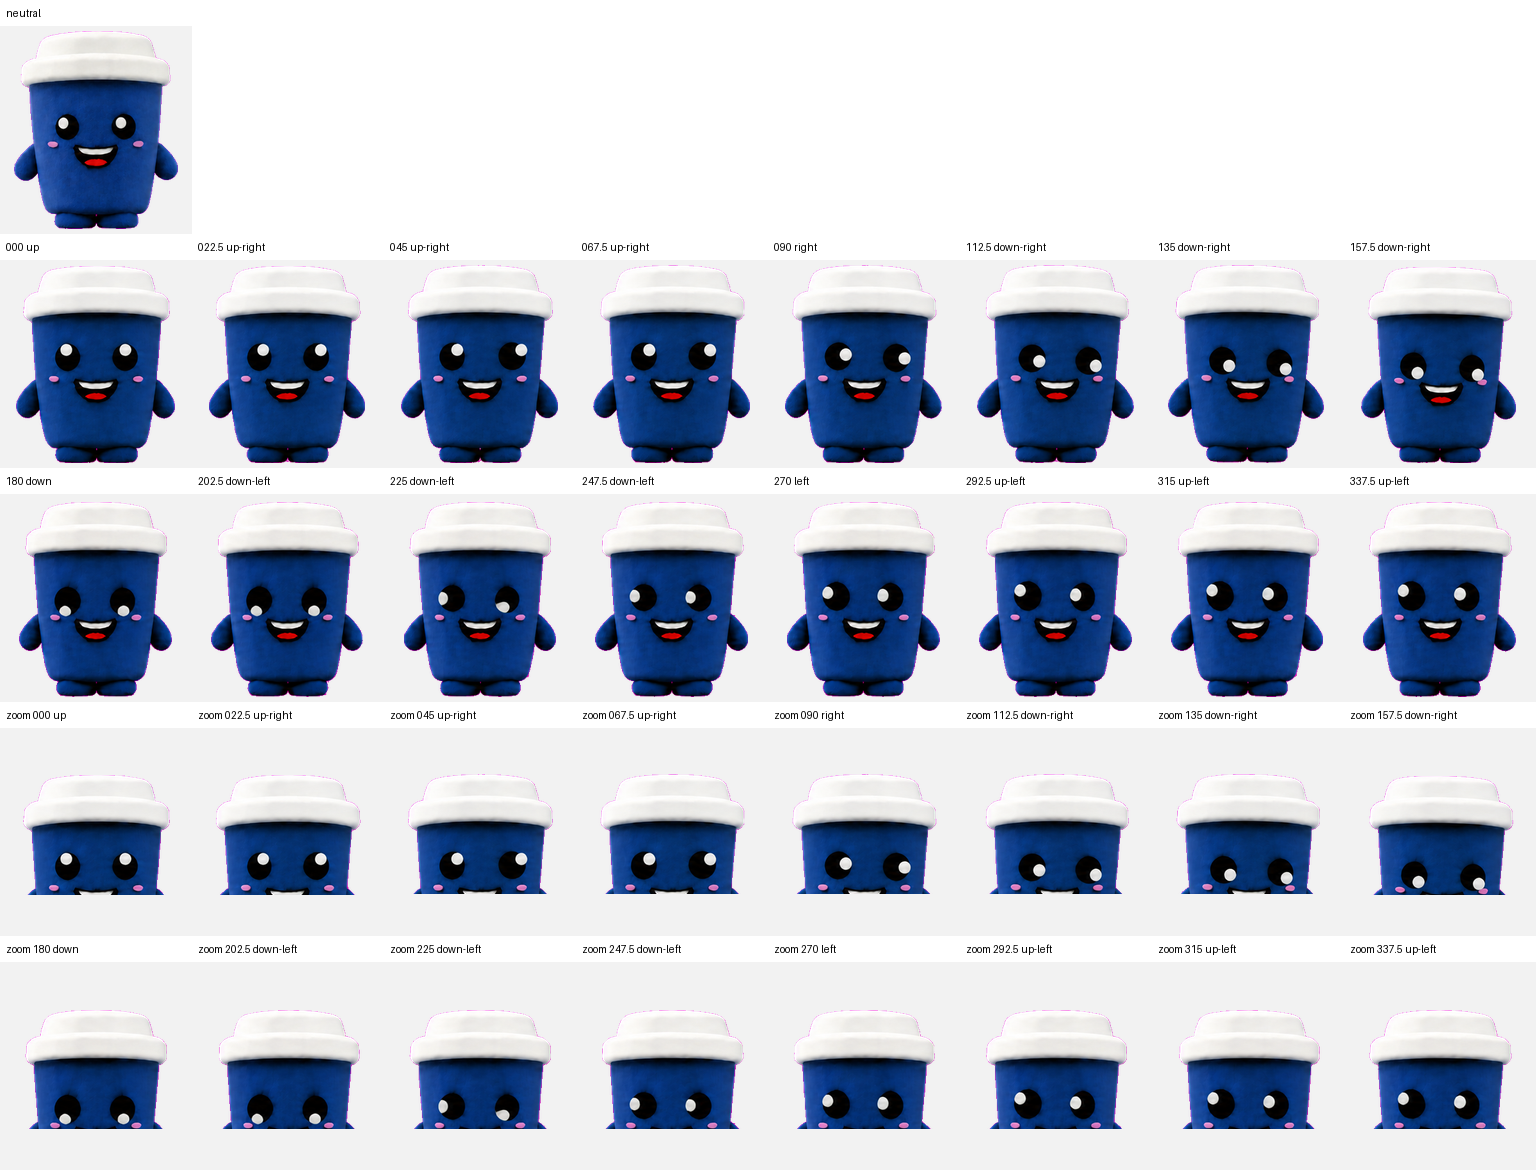
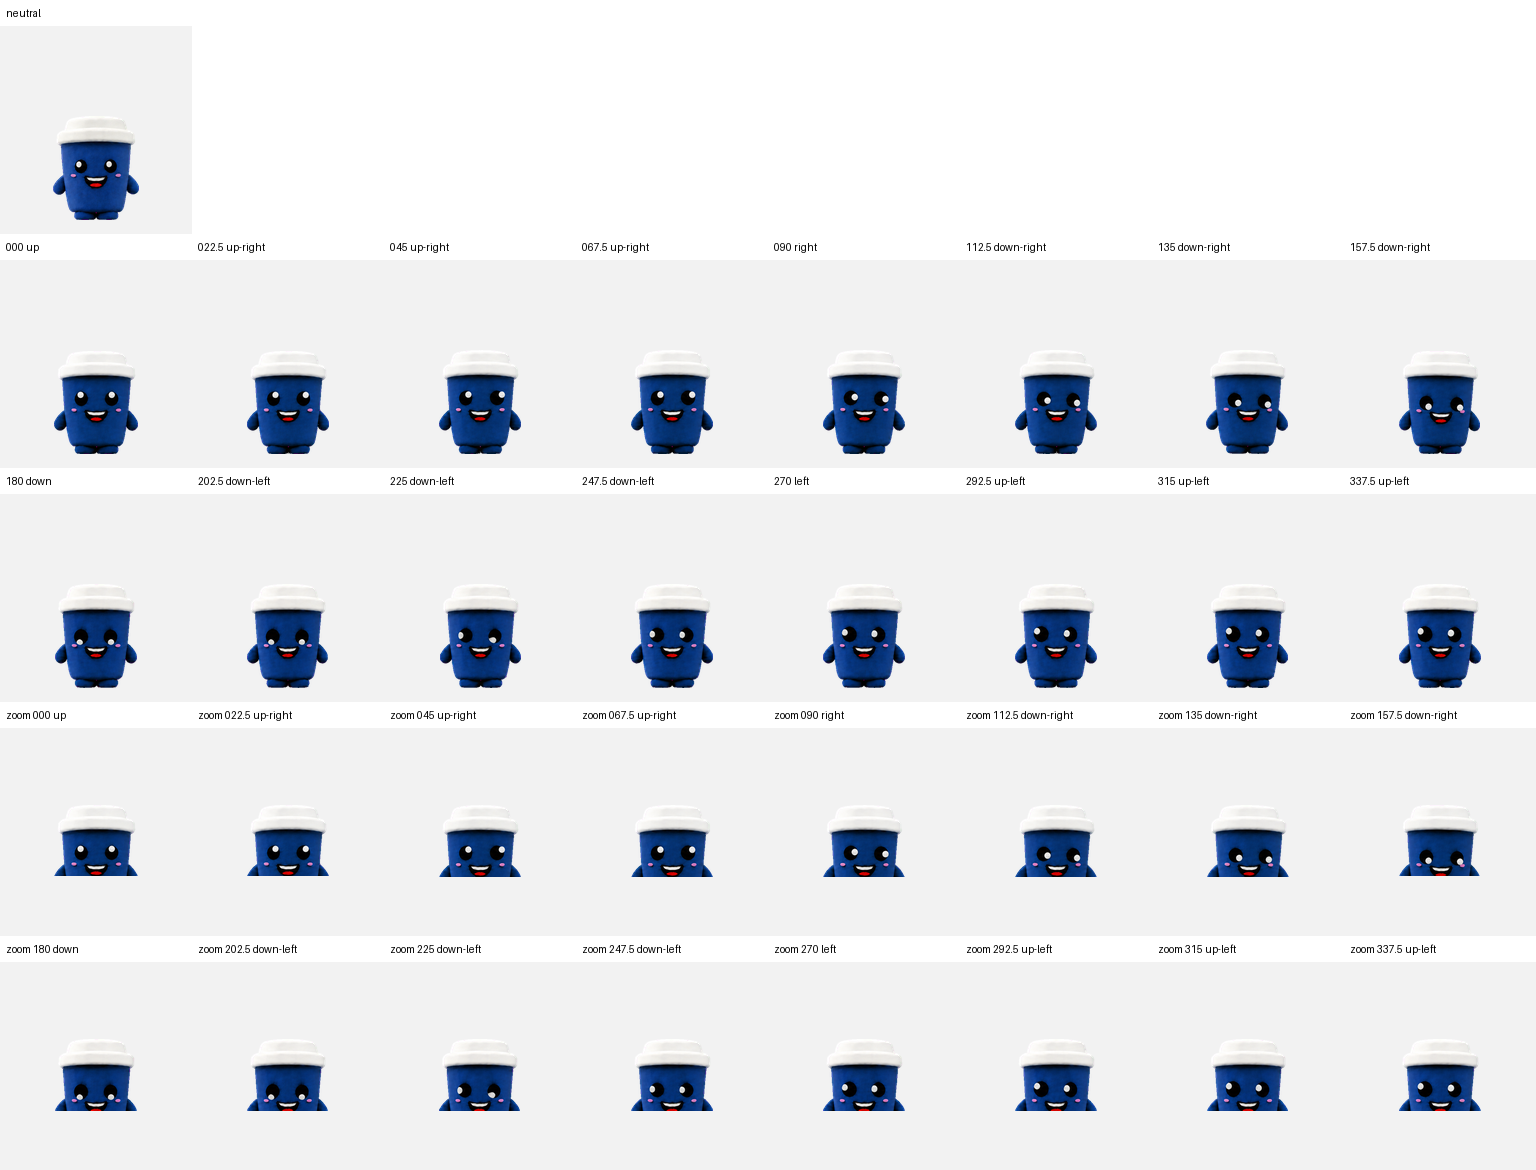
fix: match Blue Buddy scale to Kirby

diff --git a/README.md b/README.md
@@ -60,6 +60,8 @@ npx --yes github:HarryZus/zus-blue-buddy-codex-pet --uninstall
 
 The atlas uses the Codex v2 pet format: 8 columns by 11 rows, with 192×208 pixel cells and a final size of 1536×2288.
 
+The mascot framing follows Kirby's native Codex convention: approximately 104 pixels of visible character height with a 14-pixel floor margin, using one stable scale across every frame in each row.
+
 | Row | Animation | When it appears |
 | --- | --- | --- |
 | 0 | Idle | Codex is open but not actively working. |
